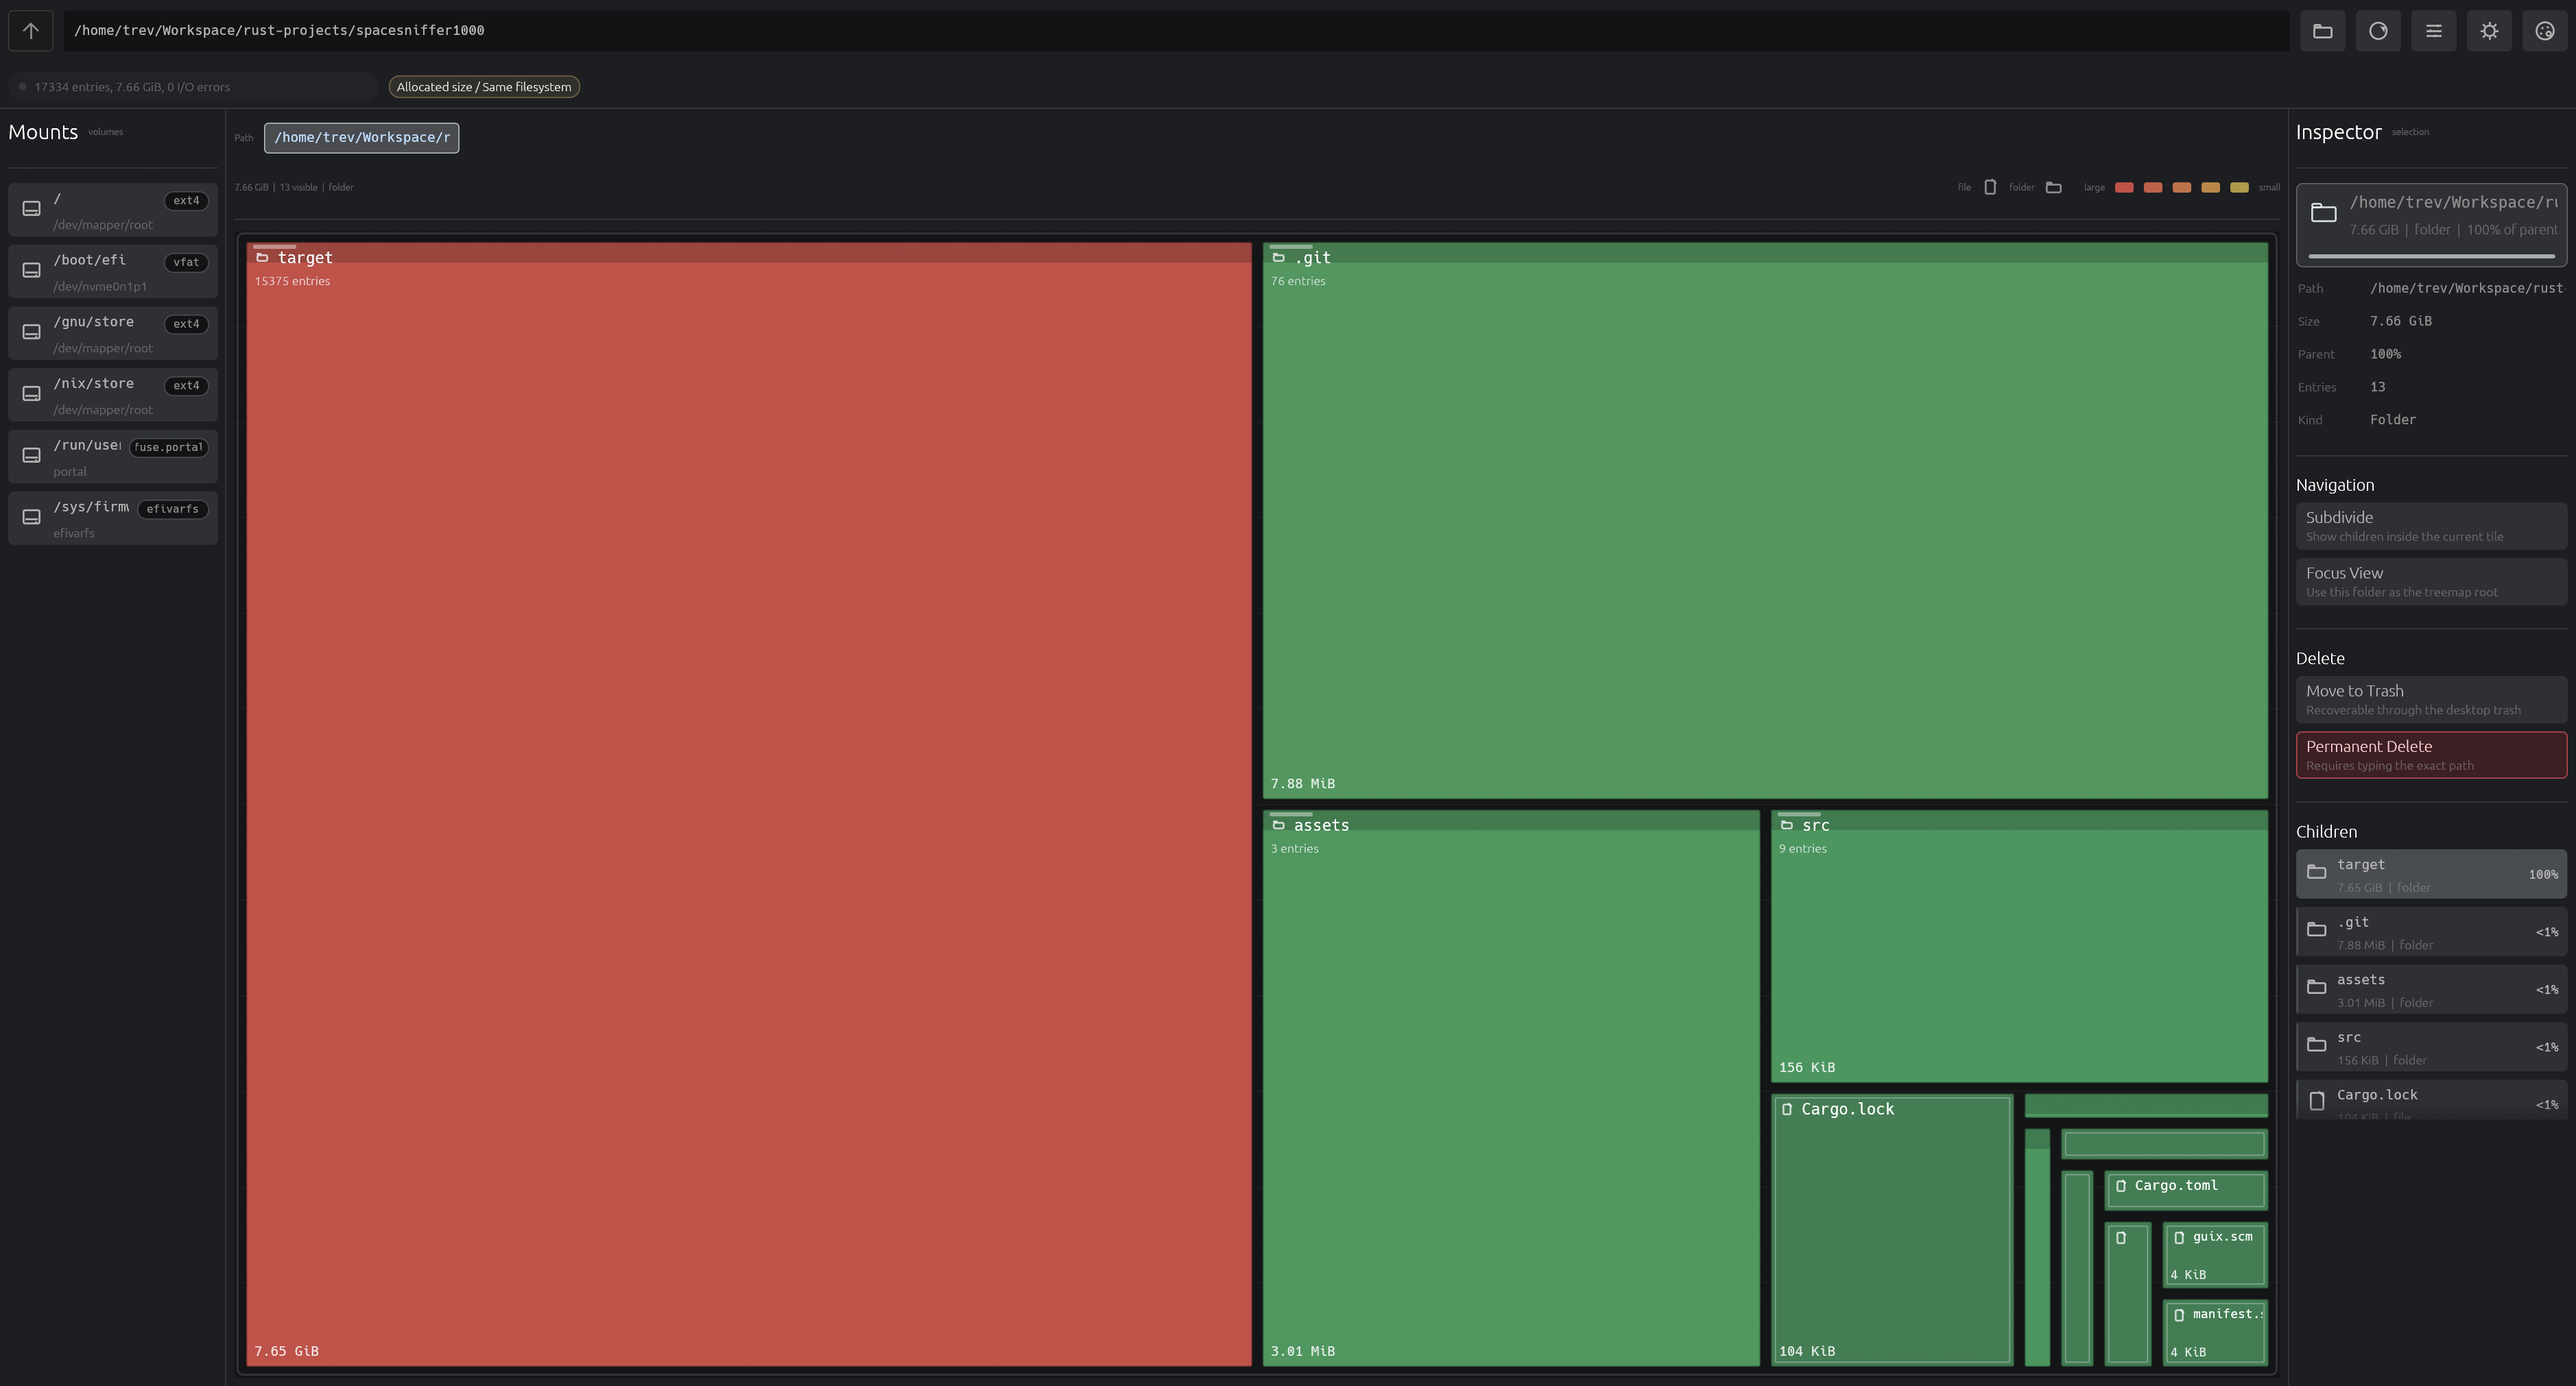
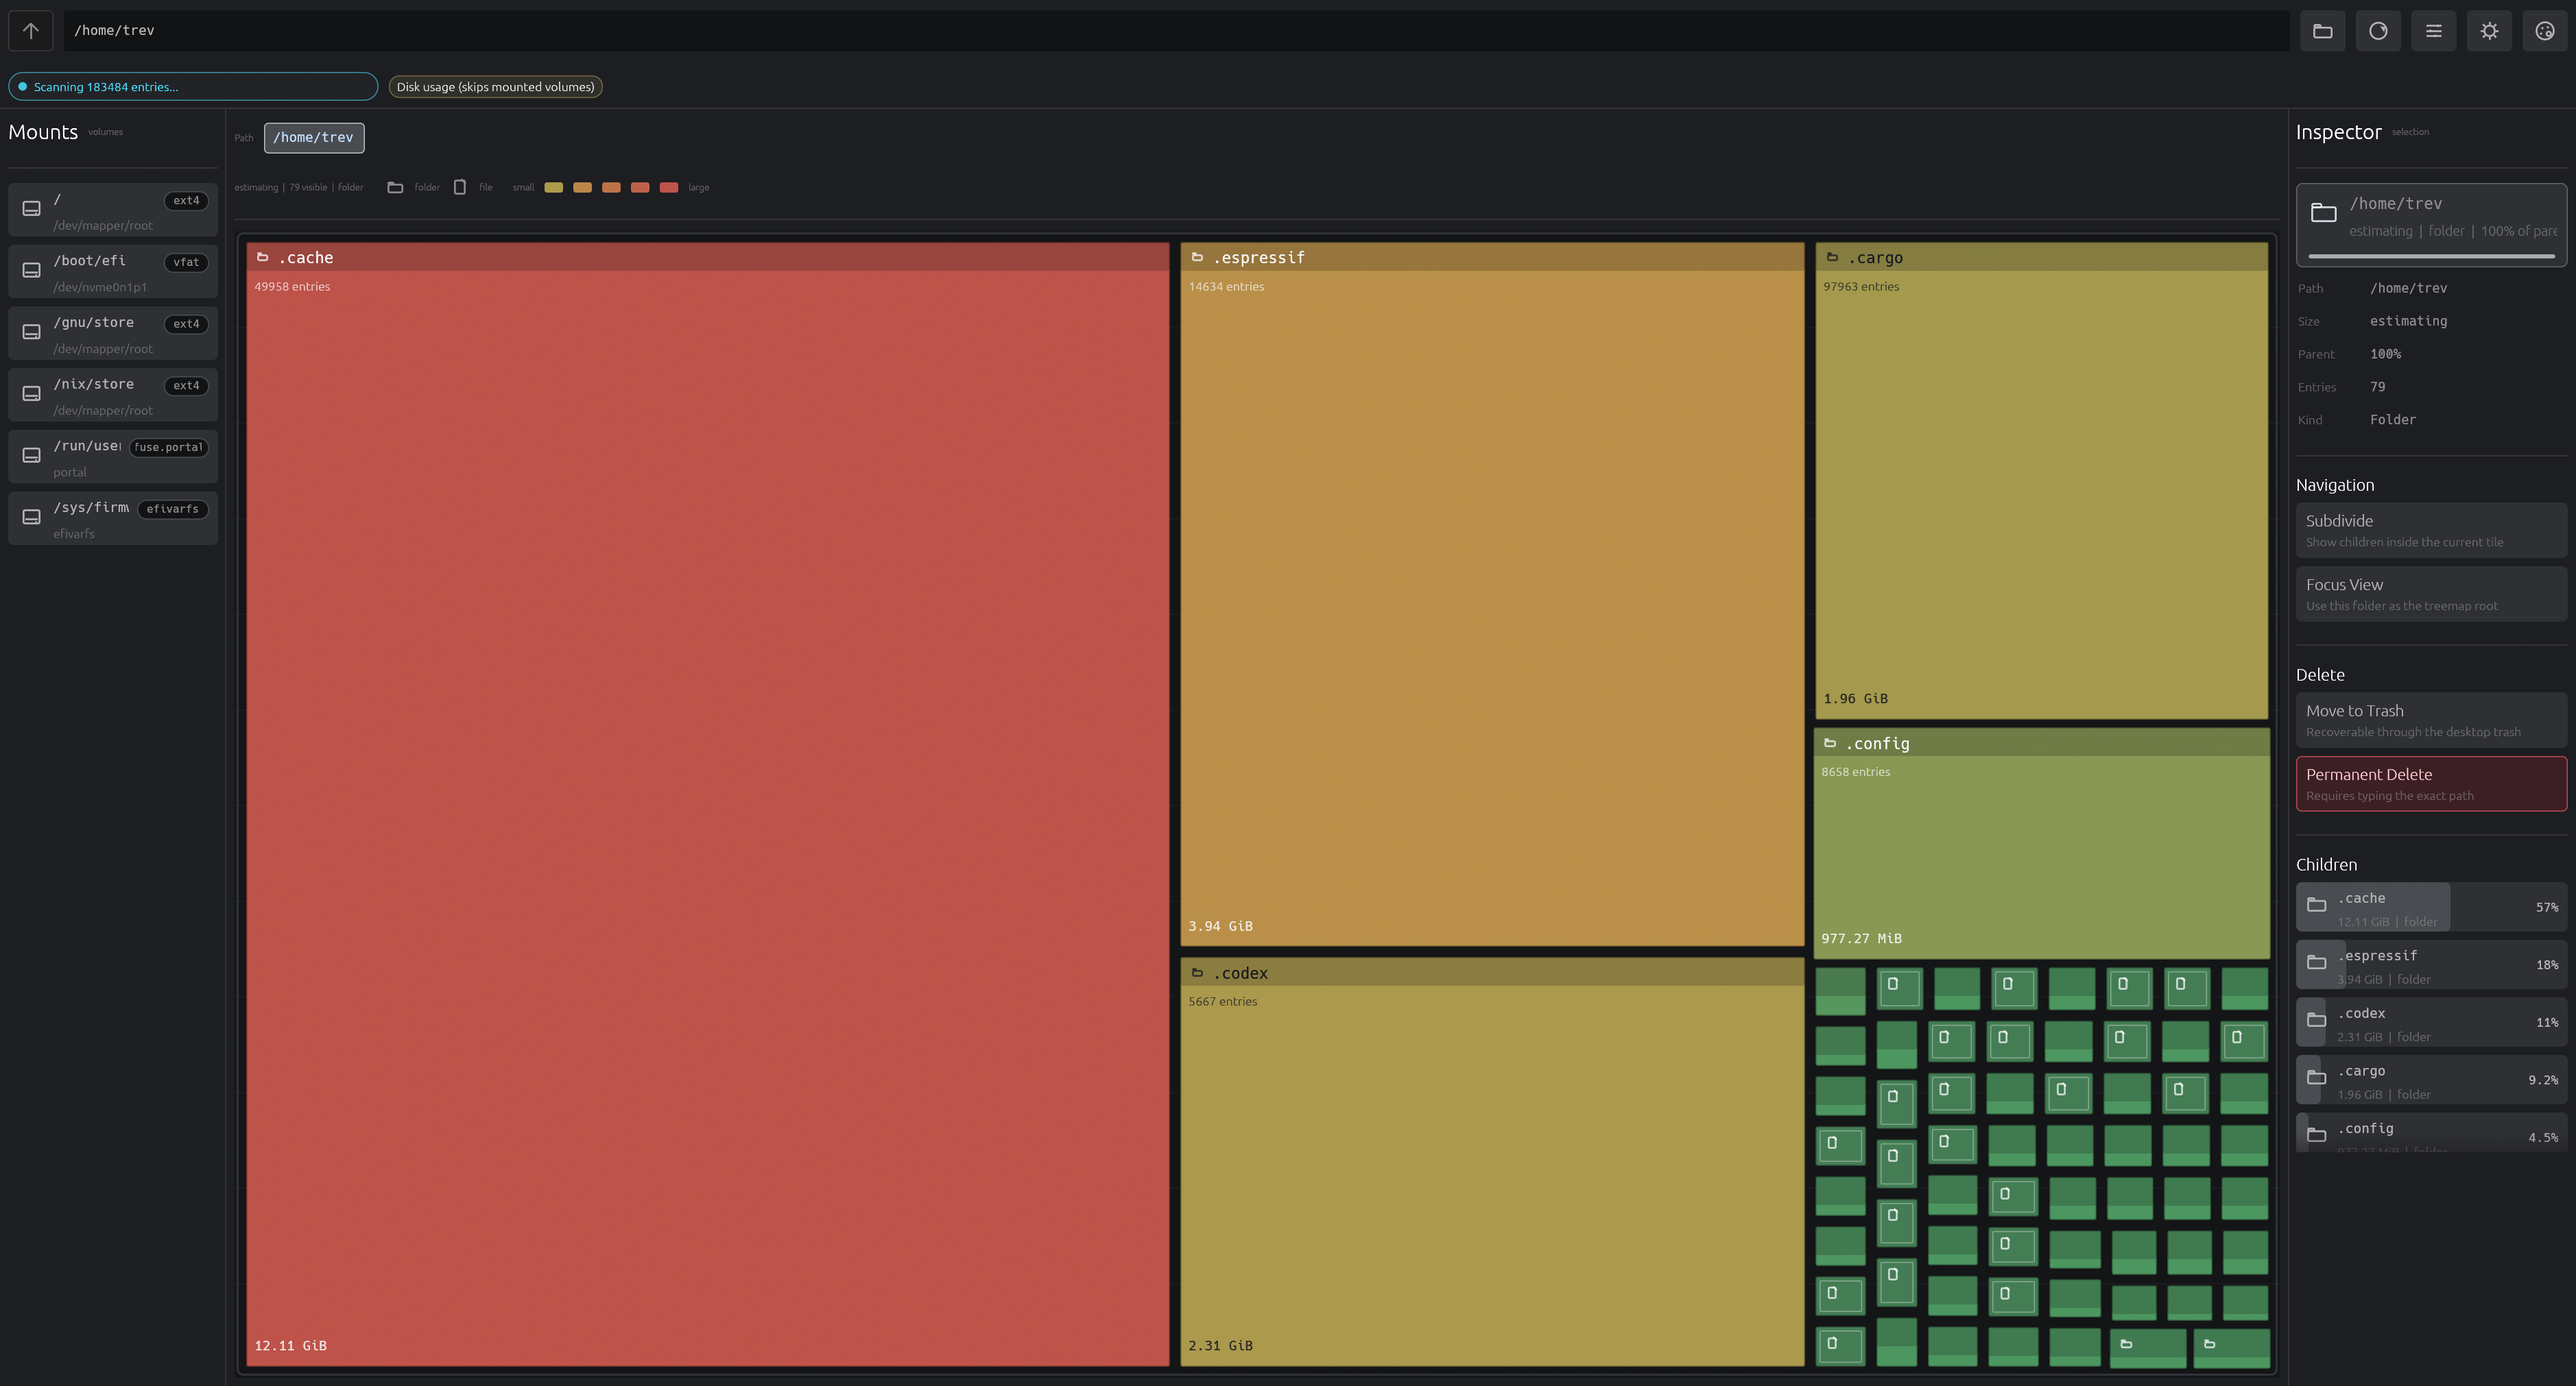
fix: prevent panel button text clipping

diff --git a/src/app.rs b/src/app.rs
@@ -2107,7 +2107,7 @@ fn action_button(
     destructive: bool,
 ) -> egui::Response {
     let (rect, response) =
-        ui.allocate_exact_size(egui::vec2(ui.available_width(), 46.0), Sense::click());
+        ui.allocate_exact_size(egui::vec2(ui.available_width(), 54.0), Sense::click());
     let visuals = ui.style().interact(&response);
     let bg = if destructive {
         Color32::from_rgba_unmultiplied(115, 35, 42, 90)
@@ -2129,25 +2129,25 @@ fn action_button(
     ui.painter()
         .rect_stroke(rect, 5.0, stroke, StrokeKind::Inside);
     let title_rect = egui::Rect::from_min_max(
-        rect.left_top() + egui::vec2(10.0, 5.0),
-        rect.right_top() + egui::vec2(-10.0, 25.0),
+        rect.left_top() + egui::vec2(10.0, 7.0),
+        rect.right_top() + egui::vec2(-10.0, 29.0),
     );
     clipped_text(
         ui.painter(),
         title_rect,
-        Align2::LEFT_TOP,
+        Align2::LEFT_CENTER,
         title,
         FontId::proportional(15.0),
         title_color,
     );
     let detail_rect = egui::Rect::from_min_max(
-        rect.left_bottom() + egui::vec2(10.0, -20.0),
-        rect.right_bottom() - egui::vec2(10.0, 4.0),
+        rect.left_top() + egui::vec2(10.0, 30.0),
+        rect.right_bottom() - egui::vec2(10.0, 7.0),
     );
     clipped_text(
         ui.painter(),
         detail_rect,
-        Align2::LEFT_BOTTOM,
+        Align2::LEFT_CENTER,
         detail,
         FontId::proportional(12.0),
         ui.visuals().weak_text_color(),
@@ -2297,11 +2297,7 @@ fn clipped_text(
 }
 
 fn clipped_text_geometry(rect: egui::Rect, align: Align2) -> (egui::Rect, egui::Pos2) {
-    let clip_rect = match align {
-        Align2::LEFT_TOP => rect.expand2(egui::vec2(0.0, 2.0)),
-        Align2::LEFT_BOTTOM | Align2::RIGHT_BOTTOM => rect.expand2(egui::vec2(0.0, 1.0)),
-        _ => rect,
-    };
+    let clip_rect = rect.expand2(egui::vec2(0.0, 2.0));
     let pos = match align {
         Align2::LEFT_TOP => rect.left_top() + egui::vec2(0.0, 1.0),
         Align2::LEFT_CENTER => rect.left_center(),
@@ -3521,6 +3517,16 @@ mod tests {
         assert!(clip_rect.bottom() > rect.bottom());
         assert!(pos.y > rect.top());
         assert!(pos.y < rect.center().y);
+    }
+
+    #[test]
+    fn clipped_center_aligned_text_has_ascender_bleed() {
+        let rect = egui::Rect::from_min_size(egui::pos2(10.0, 20.0), egui::vec2(120.0, 18.0));
+        let (clip_rect, pos) = clipped_text_geometry(rect, Align2::LEFT_CENTER);
+
+        assert!(clip_rect.top() < rect.top());
+        assert!(clip_rect.bottom() > rect.bottom());
+        assert_eq!(pos, rect.left_center());
     }
 
     #[test]
